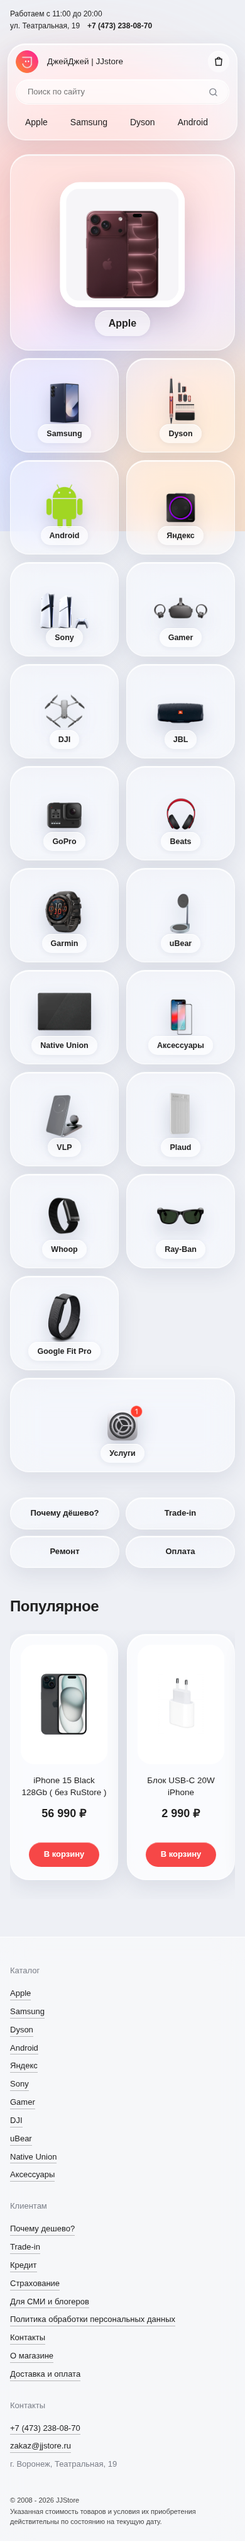
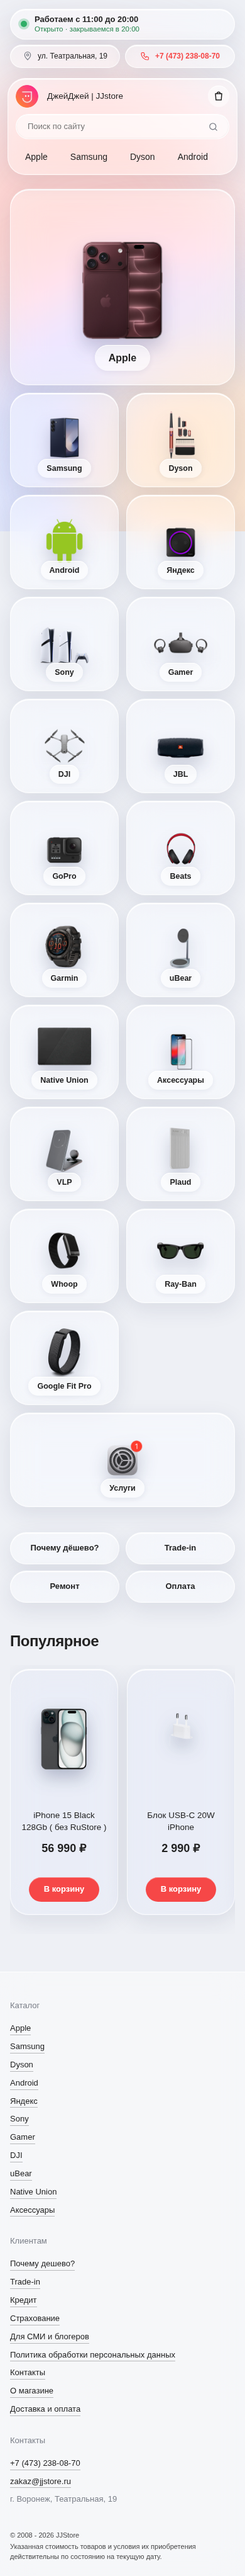
Rework opening-hours block, cut white photo backgrounds to transparent PNGs
Claude-Session: https://claude.ai/code/session_0163ZjdM2uxMpsZRiagcJtBK

diff --git a/assets/script.js b/assets/script.js
@@ -4,18 +4,18 @@
   const fmt = n => n.toLocaleString('ru-RU').replace(/ /g, ' ') + ' ₽';
 
   const PRODUCTS = [
-    { id: 1, name: 'iPhone 15 Black 128Gb ( без RuStore )', price: 56990, img: 'apple/iphone15/i15black-400x280.jpg', url: 'apple/iphone/iphone-15/128gb-21/iphone-15-black-128gb-bez-rustore' },
-    { id: 2, name: 'Блок USB-C 20W iPhone', price: 2990, img: 'iphone/aksessuary/blok-usb-c-20w-iphone-400x280.jpg', url: 'apple/aksessuary-1/blok-pitaniya/apple-10/blok-usb-c-20w-iphone' },
+    { id: 1, name: 'iPhone 15 Black 128Gb ( без RuStore )', price: 56990, img: 'apple/iphone15/i15black-400x280.png', url: 'apple/iphone/iphone-15/128gb-21/iphone-15-black-128gb-bez-rustore' },
+    { id: 2, name: 'Блок USB-C 20W iPhone', price: 2990, img: 'iphone/aksessuary/blok-usb-c-20w-iphone-400x280.png', url: 'apple/aksessuary-1/blok-pitaniya/apple-10/blok-usb-c-20w-iphone' },
     { id: 3, name: 'iPhone 17 Pro Deep Blue 256Gb ( без RuStore)', price: 98990, img: 'apple/17pro/iphone-17-pro-deepblue-400x280.png', url: 'apple/iphone/iphone-17-pro-1/256gb-55/iphone-17-pro-deep-blue-256gb-bez' },
     { id: 4, name: 'AirPods 4', price: 10490, img: 'airpods4/airpods_4-400x280.png', url: 'apple/airpods/airpods-4/airpods-4-1' },
-    { id: 5, name: 'iPhone 15 Blue 128Gb ( без Rustore )', price: 56990, img: 'apple/iphone15/i15blue-400x280.jpg', url: 'apple/iphone/iphone-15/128gb-21/iphone-15-blue-128gb-bez-rustore' },
+    { id: 5, name: 'iPhone 15 Blue 128Gb ( без Rustore )', price: 56990, img: 'apple/iphone15/i15blue-400x280.png', url: 'apple/iphone/iphone-15/128gb-21/iphone-15-blue-128gb-bez-rustore' },
     { id: 6, name: 'iPhone 17 Pro Silver 256Gb ( без RuStore)', price: 99990, img: 'apple/17pro/iphone-17-pro-silver-400x280.png', url: 'apple/iphone/iphone-17-pro-1/256gb-55/iphone-17-pro-silver-256gb-bez-ru' },
     { id: 7, name: 'iPhone 16 Black 128Gb ( без RuStore )', price: 65990, img: 'iphone16/black/iphone_16_black-transformed-400x280.png', url: 'apple/iphone/iphone-16/128gb-7/iphone-16-black-128gb-bez-rustore' },
     { id: 8, name: 'AirPods 4 с активным шумоподавлением', price: 13490, img: 'airpods4/airpods_4_noise-400x280.png', url: 'apple/airpods/airpods-4/airpods-4-s-aktivnym-shumopodavleniem' },
-    { id: 9, name: 'iPhone 17 Black 256Gb ( без RuStore)', price: 78990, img: 'apple/iphone17/08ed48e6-8718-4703-91bd-35e0c0490348-400x280.jpg', url: 'apple/iphone/iphone-17-1/256gb-24/iphone-17-black-256gb-bez-rustore' },
-    { id: 10, name: 'Sony PlayStation 5 Slim DVD', price: 71990, img: 'sony/a6d2fe363c2044d784357374213b0218-400x280.jpg', url: 'sony/playstation-1/ps5/sony-playstation-5-slim-dvd' },
+    { id: 9, name: 'iPhone 17 Black 256Gb ( без RuStore)', price: 78990, img: 'apple/iphone17/08ed48e6-8718-4703-91bd-35e0c0490348-400x280.png', url: 'apple/iphone/iphone-17-1/256gb-24/iphone-17-black-256gb-bez-rustore' },
+    { id: 10, name: 'Sony PlayStation 5 Slim DVD', price: 71990, img: 'sony/a6d2fe363c2044d784357374213b0218-400x280.png', url: 'sony/playstation-1/ps5/sony-playstation-5-slim-dvd' },
     { id: 11, name: 'iPhone 17 Pro Max Silver 256Gb ( без RuStore)', price: 106990, img: 'apple/17pro/iphone-17-pro-silver-400x280.png', url: 'apple/iphone/iphone-17-pro-max-1/256gb-56/iphone-17-pro-max-silver-256g' },
-    { id: 12, name: 'iPhone 15 Black 256Gb ( без RuStore )', price: 66990, img: 'apple/iphone15/i15black-400x280.jpg', url: 'apple/iphone/iphone-15/256gb-25/iphone-15-black-256gb-bez-rustore' },
+    { id: 12, name: 'iPhone 15 Black 256Gb ( без RuStore )', price: 66990, img: 'apple/iphone15/i15black-400x280.png', url: 'apple/iphone/iphone-15/256gb-25/iphone-15-black-256gb-bez-rustore' },
   ];
   const byId = id => PRODUCTS.find(p => p.id === id);
   const link = p => 'https://jjstore.ru/' + p.url;
@@ -86,6 +86,16 @@
       g.style.setProperty('--mx', (e.clientX - r.left) + 'px'); g.style.setProperty('--my', (e.clientY - r.top) + 'px');
     }, { passive: true });
   }
+
+  /* opening hours: Voronezh time (MSK), 11:00–20:00 */
+  (function () {
+    const el = $('#hoursState'), box = $('#hours'); if (!el) return;
+    const parts = new Intl.DateTimeFormat('ru-RU', { timeZone: 'Europe/Moscow', hour: 'numeric', minute: 'numeric', hour12: false }).formatToParts(new Date());
+    const mins = +parts.find(p => p.type === 'hour').value * 60 + +parts.find(p => p.type === 'minute').value;
+    const open = mins >= 11 * 60 && mins < 20 * 60;
+    box.classList.toggle('open', open);
+    el.textContent = open ? `Открыто · закрываемся в 20:00` : (mins < 11 * 60 ? 'Закрыто · откроемся в 11:00' : 'Закрыто · откроемся завтра в 11:00');
+  })();
 
   renderCart();
 })();

diff --git a/assets/style.css b/assets/style.css
@@ -224,3 +224,36 @@ body{background:var(--bg)}
 .tile.feat img{background:#fff;border-radius:32px;padding:10px;max-height:66%;mix-blend-mode:normal;
   filter:none;box-shadow:inset 0 0 0 1px rgba(255,255,255,.9),0 24px 50px rgba(60,40,60,.22)}
 @media(max-width:560px){.icons a{display:none}.head-row{flex-wrap:wrap;gap:10px}.logo span{font-size:13.5px}}
+
+/* photos are now transparent PNGs: no plates, no blend tricks */
+.card .img{background:none}
+.card .img img{mix-blend-mode:normal;filter:drop-shadow(0 14px 14px rgba(30,40,80,.2))}
+.ci img{mix-blend-mode:normal}
+.tile img,.tile.feat img{background:none;border-radius:0;padding:0;mix-blend-mode:normal;box-shadow:none;
+  filter:drop-shadow(0 14px 14px rgba(30,40,80,.22))}
+.tile.feat img{max-height:70%;max-width:56%}
+
+/* opening-hours block */
+.topbar{align-items:center;padding:14px 0 16px}
+.hours{display:flex;align-items:center;gap:12px;padding:9px 20px 9px 16px;border-radius:99px}
+.hours b{display:block;font-weight:600;font-size:13px;line-height:1.2}
+.hours small{display:block;font-size:11.5px;color:var(--muted);line-height:1.3}
+.state{width:10px;height:10px;border-radius:50%;background:#a3a7b0;flex:none}
+.hours.open .state{background:#2fae66;box-shadow:0 0 0 0 rgba(47,174,102,.5);animation:ping 2.2s infinite}
+.hours.open small{color:#23834c}
+@keyframes ping{70%{box-shadow:0 0 0 9px rgba(47,174,102,0)}100%{box-shadow:0 0 0 0 rgba(47,174,102,0)}}
+.contact{display:flex;gap:10px}
+.chip{display:inline-flex;align-items:center;gap:8px;padding:10px 18px;border-radius:99px;font-size:13px;font-weight:500}
+.chip svg{font-size:16px;color:var(--muted)}
+.chip.phone{font-weight:700;color:var(--accent)}
+.chip.phone svg{color:var(--accent)}
+.chip.phone:hover{background:#fff}
+@media(max-width:760px){
+  .topbar{flex-direction:column;align-items:stretch;gap:8px;font-size:12px}
+  .contact{gap:8px}.chip{flex:1;justify-content:center;padding:9px 10px;font-size:12px}
+  .hours{padding:8px 16px}
+}
+@media(prefers-reduced-motion:reduce){.state{animation:none!important}}
+/* slightly cool card tint so white products (charger, AirPods) stay visible */
+.card{background:rgba(232,236,246,.62)}
+.card .img img{filter:drop-shadow(0 12px 14px rgba(30,40,80,.28))}

diff --git a/index.html b/index.html
@@ -15,11 +15,14 @@
 <div class="orbs" aria-hidden="true"><i class="o1"></i><i class="o2"></i><i class="o3"></i></div>
 
 <div class="topbar wrap">
-  <span>Работаем с 11:00 до 20:00</span>
-  <span class="topbar-r">
-    <span>ул. Театральная, 19</span>
-    <a href="tel:+74732380870">+7 (473) 238-08-70</a>
-  </span>
+  <div class="hours glass" id="hours">
+    <i class="state" aria-hidden="true"></i>
+    <div><b>Работаем с 11:00 до 20:00</b><small id="hoursState">&nbsp;</small></div>
+  </div>
+  <div class="contact">
+    <span class="chip glass"><svg viewBox="0 0 24 24"><path d="M12 21s7-6.2 7-11.5A7 7 0 0 0 5 9.500C5 14.800 12 21 12 21Z"/><circle cx="12" cy="9.500" r="2.500"/></svg>ул. Театральная, 19</span>
+    <a class="chip glass phone" href="tel:+74732380870"><svg viewBox="0 0 24 24"><path d="M5 4h4l2 5-2.500 1.500a11 11 0 0 0 5 5L15 13l5 2v4a2 2 0 0 1-2 2A15 15 0 0 1 3 6a2 2 0 0 1 2-2Z"/></svg>+7 (473) 238-08-70</a>
+  </div>
 </div>
 
 <header class="head" id="head">
